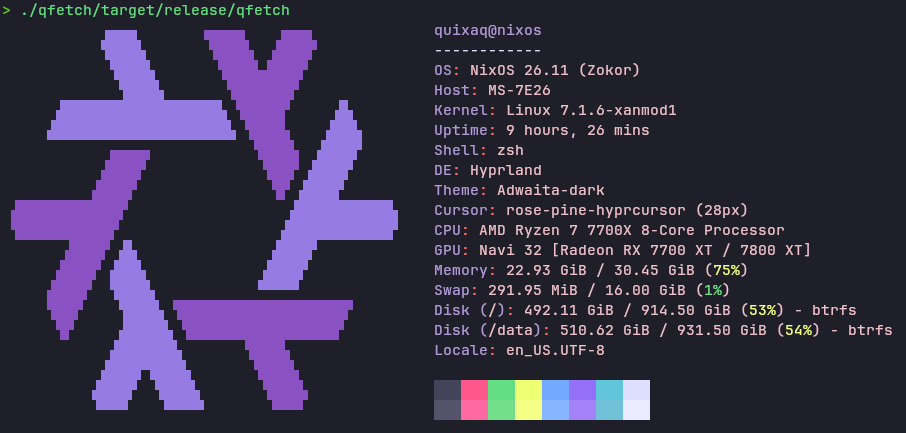
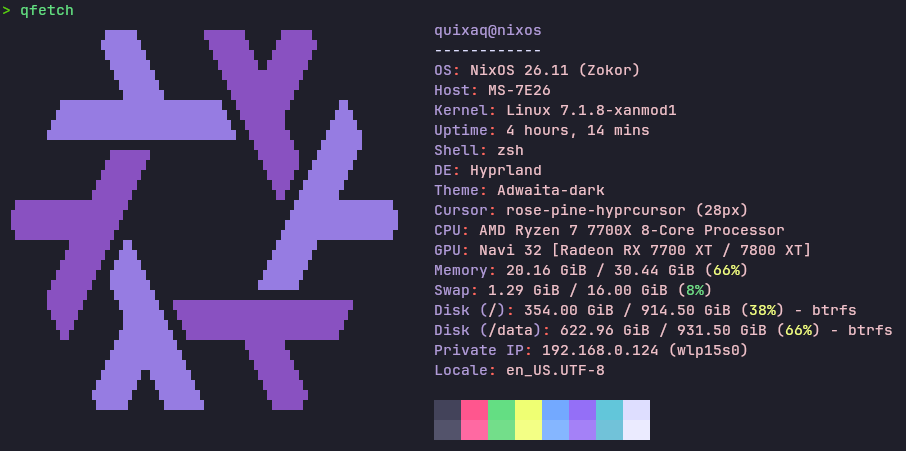
feat: private ip address

diff --git a/src/sysinfo.rs b/src/sysinfo.rs
@@ -2,21 +2,23 @@
 // SPDX-License-Identifier: GPL-3.0-or-later
 
 use humansize::{BINARY, SizeFormatter};
+use nix::ifaddrs::getifaddrs;
 use nix::sys::{statvfs, sysinfo, utsname::uname};
 #[cfg(any(target_arch = "x86_64", target_arch = "x86"))]
 use raw_cpuid::CpuId;
 use std::fmt::Write;
 use std::fs::{self, File};
 use std::io::{BufRead, BufReader};
+use std::net::Ipv4Addr;
 use std::path::Path;
 
 use gethostname::gethostname;
 
 use crate::{
-    HIGH_COLOR, KEYS_COLOR, LOW_COLOR, MEDIUM_COLOR, MOUNTS_BLOCKLIST, MOUNTS_HIGH, MOUNTS_KEY,
-    MOUNTS_MEDIUM, MOUNTS_NO_DEFAULT_BLOCKLIST, MOUNTSPOINT_COLOR, RAM_HIGH, RAM_MEDIUM,
-    SEPARATOR_COLOR, SWAP_HIGH, SWAP_MEDIUM, TITLE_COLOR, TITLE_SEP_CHAR, TITLE_SEP_COLOR,
-    VALUES_COLOR,
+    HIGH_COLOR, IP_PRINT_INTERFACE, KEYS_COLOR, LOW_COLOR, MEDIUM_COLOR, MOUNTS_BLOCKLIST,
+    MOUNTS_HIGH, MOUNTS_KEY, MOUNTS_MEDIUM, MOUNTS_NO_DEFAULT_BLOCKLIST, MOUNTSPOINT_COLOR,
+    RAM_HIGH, RAM_MEDIUM, SEPARATOR_COLOR, SWAP_HIGH, SWAP_MEDIUM, TITLE_COLOR, TITLE_SEP_CHAR,
+    TITLE_SEP_COLOR, VALUES_COLOR,
 };
 
 pub fn title() -> (Option<String>, Option<String>) {
@@ -297,4 +299,25 @@ pub fn mounts() -> Option<String> {
     }
 
     Some(out).filter(|s| !s.is_empty())
+}
+
+pub fn local_ip() -> Option<String> {
+    let addrs = getifaddrs().ok()?;
+    for ifaddr in addrs {
+        if let Some(storage) = ifaddr.address {
+            if let Some(inet) = storage.as_sockaddr_in() {
+                let ip = Ipv4Addr::from(inet.ip());
+                if !ip.is_private() {
+                    continue;
+                }
+                if IP_PRINT_INTERFACE {
+                    let interface = ifaddr.interface_name;
+                    return Some(format!("{} ({})", ip.to_string(), interface));
+                } else {
+                    return Some(ip.to_string());
+                }
+            }
+        }
+    }
+    None
 }

diff --git a/build.rs b/build.rs
@@ -43,11 +43,17 @@ struct MountsSettings {
 }
 
 #[derive(Deserialize)]
+struct PrivateIpSettings {
+    print_interface: bool,
+}
+
+#[derive(Deserialize)]
 struct ModuleSettings {
     title: TitleSettings,
     ram: RamSettings,
     swap: SwapSettings,
     mounts: MountsSettings,
+    ip: PrivateIpSettings,
 }
 
 #[derive(Deserialize)]
@@ -191,6 +197,7 @@ fn main() {
                 | "ram"
                 | "swap"
                 | "mounts"
+                | "ip"
                 | "locale"
                 | "standard_palette"
                 | "bright_palette"
@@ -347,6 +354,12 @@ fn main() {
     constants.push(format!(
         "pub const MOUNTS_BLOCKLIST: &[&'static str] = &[\"{}\"];",
         mounts_blocklist.join("\", \"")
+    ));
+
+    let print_interface = config.module_settings.ip.print_interface;
+    constants.push(format!(
+        "pub const IP_PRINT_INTERFACE: bool = {};",
+        print_interface
     ));
 
     let logo_enabled = config.logo.enabled;

diff --git a/src/main.rs b/src/main.rs
@@ -2,7 +2,7 @@
 // SPDX-License-Identifier: GPL-3.0-or-later
 
 /*
- *     qfetch v0.3.5
+ *     qfetch v0.4.0
  * Copyright (C) 2026  Quixaq
  *
  * This program is free software: you can redistribute it and/or modify
@@ -75,6 +75,11 @@ fn main() {
     };
     let mounts = if MOUNTS_ENABLED {
         sysinfo::mounts()
+    } else {
+        None
+    };
+    let ip = if IP_ENABLED {
+        sysinfo::local_ip()
     } else {
         None
     };
